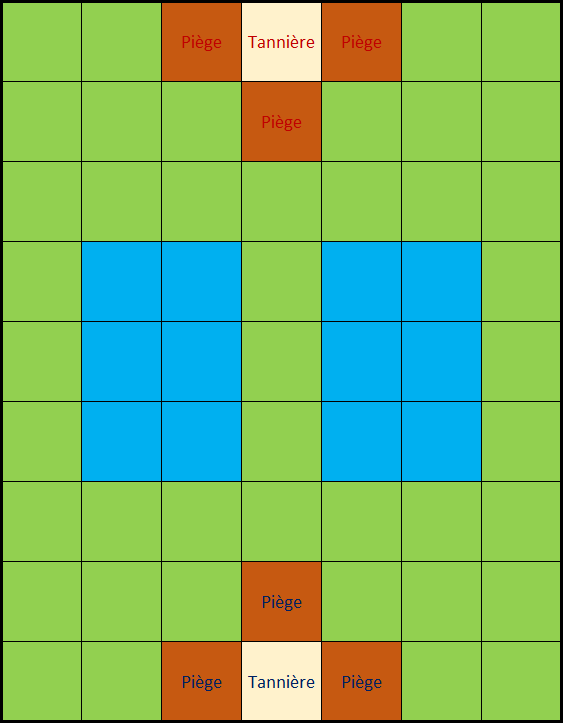
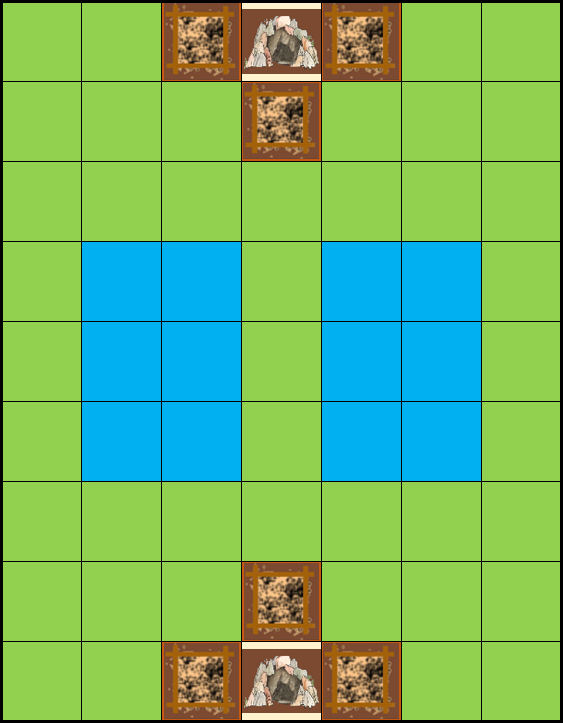
ajout IHMs

Changed region(s): [[0.2718, 0.7607, 0.7247, 1.0], [0.2718, 0.0, 0.7247, 0.2434]]

diff --git a/src/jeu_jungle/IHMPlateau.java b/src/jeu_jungle/IHMPlateau.java
@@ -53,9 +53,6 @@ public class IHMPlateau extends javax.swing.JFrame {
     private BufferedImage imageRatRouge;
     private BufferedImage imageRatBleu;
 
-    private int xElephantRouge = 0;
-    private int yElephantRouge = 0;
-
     /**
      * Creates new form IHMPlateau
      */
@@ -171,7 +168,7 @@ public class IHMPlateau extends javax.swing.JFrame {
     }// </editor-fold>//GEN-END:initComponents
 
     private void jPanel1MouseClicked(java.awt.event.MouseEvent evt) {//GEN-FIRST:event_jPanel1MouseClicked
-        
+
     }//GEN-LAST:event_jPanel1MouseClicked
     /**
      * @param args the command line arguments

diff --git a/src/jeu_jungle/IHMPageDébut.java b/src/jeu_jungle/IHMPageDébut.java
@@ -1,0 +1,14 @@
+/*
+ * To change this license header, choose License Headers in Project Properties.
+ * To change this template file, choose Tools | Templates
+ * and open the template in the editor.
+ */
+package jeu_jungle;
+
+/**
+ *
+ * @author lucas
+ */
+public class IHMPageDébut {
+    
+}

diff --git a/src/jeu_jungle/IHMNom.java b/src/jeu_jungle/IHMNom.java
@@ -1,0 +1,14 @@
+/*
+ * To change this license header, choose License Headers in Project Properties.
+ * To change this template file, choose Tools | Templates
+ * and open the template in the editor.
+ */
+package jeu_jungle;
+
+/**
+ *
+ * @author lucas
+ */
+public class IHMNom {
+    
+}
